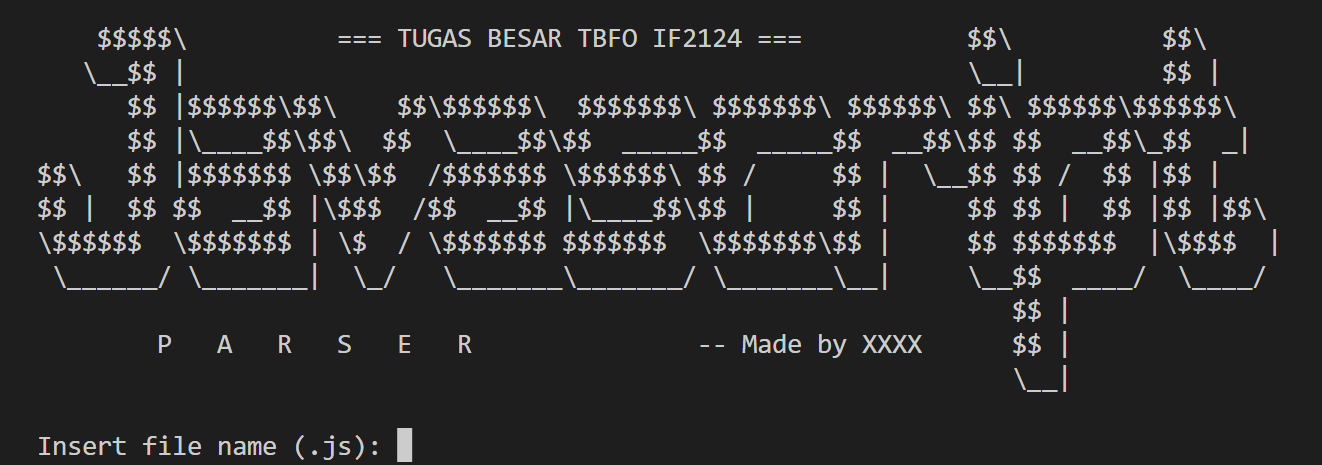
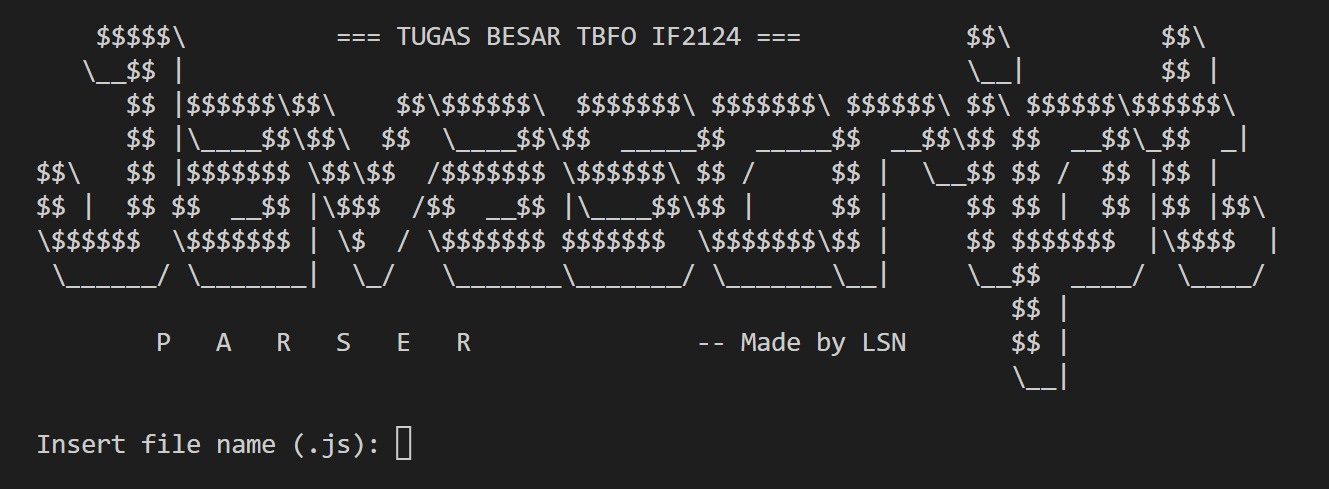
Revisi tipis README
Revisi tipis README

diff --git a/main.py b/main.py
@@ -40,7 +40,7 @@ $$ |  $$ $$  __$$ |\$$$  /$$  __$$ |\____$$\$$ |     $$ |     $$ $$ |  $$ |$$ |$
 \$$$$$$  \$$$$$$$ | \$  / \$$$$$$$ $$$$$$$  \$$$$$$$\$$ |     $$ $$$$$$$  |\$$$$  |
  \______/ \_______|  \_/   \_______\_______/ \_______\__|     \__$$  ____/  \____/ 
                                                                  $$ |              
-        P   A   R   S   E   R               -- Made by XXXX      $$ |              
+        P   A   R   S   E   R               -- Made by LSN       $$ |              
                                                                  \__|              
         ''')
 
